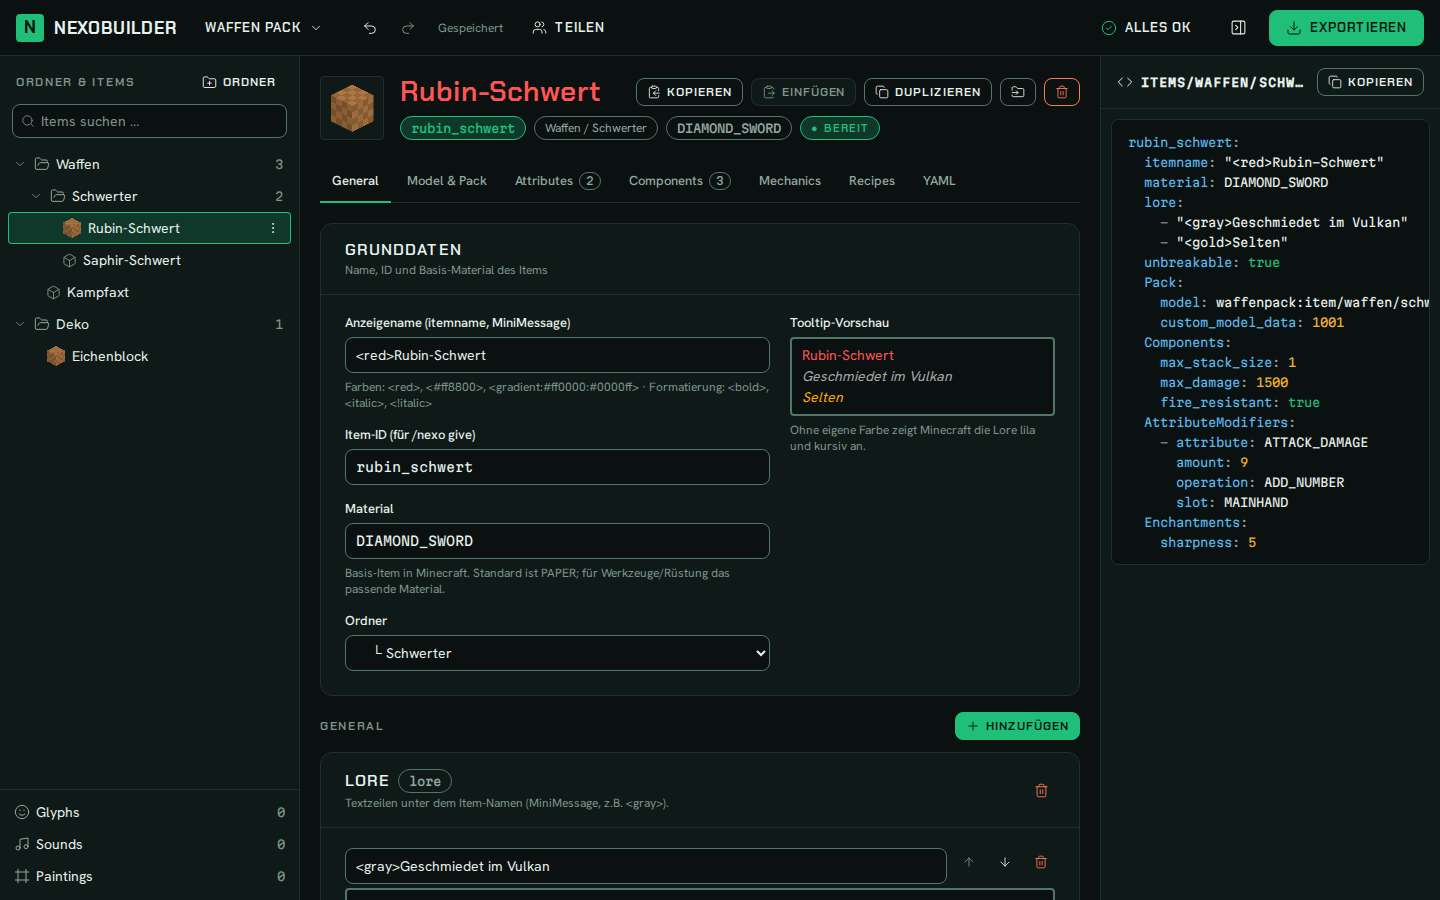
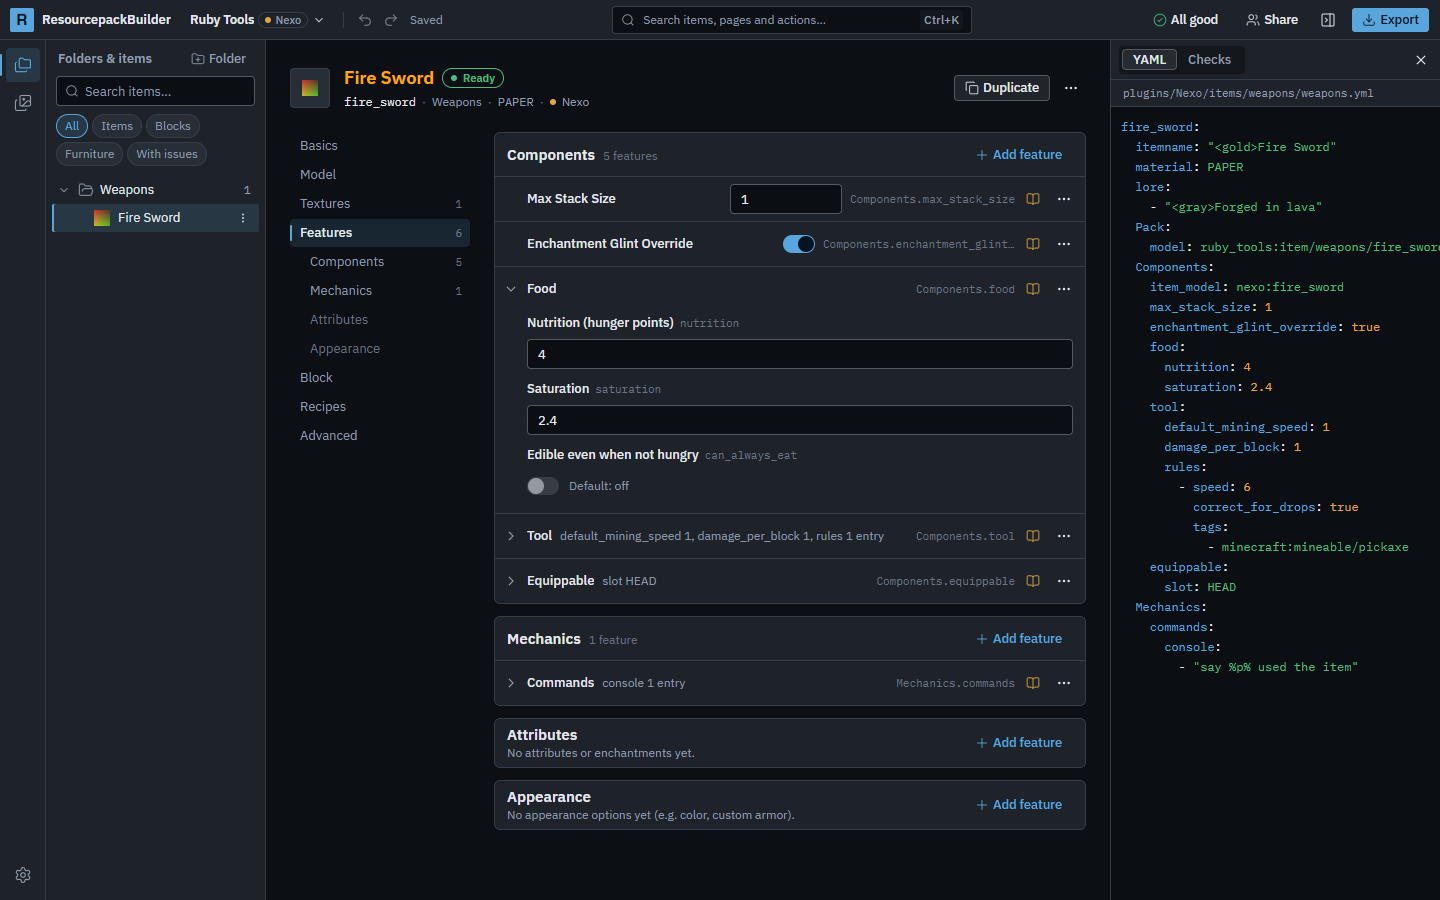
docs(readme): describe the Workbench editor and full plugin coverage with a new screenshot
Also points the CraftEngine link at the wiki's new home.

diff --git a/README.md b/README.md
@@ -1,7 +1,7 @@
 # ResourcepackBuilder
 
 **Turn Blockbench models into ready-to-use [Nexo](https://docs.nexomc.com/) or
-[CraftEngine](https://mo-mi.gitbook.io/xiaomomi-plugins-docs/) items – resource pack included.**
+[CraftEngine](https://xiao-momi.github.io/craft-engine-wiki/) items – resource pack included.**
 
 ResourcepackBuilder is a **Windows program (.exe)**. You create folders, drop your models in, set the properties in
 forms and export everything as a ZIP that you unpack straight into `plugins/Nexo/` or `plugins/CraftEngine/`.
@@ -12,6 +12,15 @@ forms and export everything as a ZIP that you unpack straight into `plugins/Nexo
 
 - **Nexo or CraftEngine** – every project targets one plugin, chosen when you create it. It cannot change later. Models,
   folders, glyphs, sounds, paintings, recipes, the 3D preview and sharing work the same for both.
+- **Workbench editor** – an activity bar (items, media, CraftEngine logic, test server, settings), a sidebar with the
+  item tree and filter chips, and an output dock with the YAML and the checks of the open page (Ctrl+J). The command
+  palette (Ctrl+K) finds items, pages, actions and the settings of the open item.
+- **Item editor** – a section nav (Basics, Model, Textures, Features, Block, Furniture, Events, Loot, Recipes,
+  Advanced) beside one section at a time. Features are compact rows you add from a searchable catalog with categories;
+  every field shows its label, its YAML key and a link to its section of the plugin docs.
+- **Docs links everywhere** – every Nexo and CraftEngine property, block behavior, recipe type, condition, function and
+  media page links to the [Nexo docs](https://docs.nexomc.com/) or the
+  [CraftEngine wiki](https://xiao-momi.github.io/craft-engine-wiki/).
 - **Folders & items** – folders (also nested) become subfolders of `plugins/Nexo/items`. Move items by drag & drop,
   duplicate and search them.
 - **Copy & paste properties** – take the complete configuration of an item (material, lore, attributes, components,
@@ -26,7 +35,7 @@ forms and export everything as a ZIP that you unpack straight into `plugins/Nexo
   - `.png` only – as a 2D item, tool or block (cube_all, pillar, six sides, plant …).
   - Several files at once → several items.
 - **3D preview** of every model (incl. display views such as hand, head, inventory) and thumbnails in the tree.
-- **Nexo properties in forms** (Nexo 1.29 / Minecraft 26.3):
+- **Nexo properties in forms** (Nexo 1.30 / Minecraft 26.3):
   - General: lore (with MiniMessage preview), unbreakable, item flags, templates, PersistentData
   - Attributes & enchantments
   - Components: food, consumable, tool, weapon, equippable, glider, durability, max stack size, cooldown, death
@@ -36,11 +45,22 @@ forms and export everything as a ZIP that you unpack straight into `plugins/Nexo
     Backpack, Commands, Custom Mechanic, Armor Effects, Trident, Repair, Harvesting, Smelting …
   - CustomArmor (worn): player armor, elytra, wolf/horse/llama/nautilus armor, harness and saddles → creates equipment
     models in the pack and sets Equippable automatically
+  - Structured editors for `blocks_attacks`, `kinetic_weapon` and `custom_model_data`, plus rarity, instrument, trims,
+    stored enchantments, potion effects, template lists and more – with the keys Nexo 1.30 reads (older projects are
+    migrated)
+  - Every furniture, custom block and mechanic option Nexo 1.30 reads, with structured hitbox, seat, bed and light
+    editors and a furniture preview
+  - **Dialogs** (`plugins/Nexo/dialogs`), **multipack** templates and menu (`multipack.yml`) and the **Carpentry**
+    addon's block types
   - Anything else: extra YAML per item
   - All features are named as in the Nexo/Minecraft docs (Components, Mechanics, Max Stack Size …) with an explanation
-    on hover
-- **Recipes** – crafting table (shaped/shapeless), furnace, blast furnace, smoker, campfire and stonecutter →
+    in the help popover
+- **Recipes** – every recipe type of the plugin: crafting table (shaped/shapeless), furnace, blast furnace, smoker,
+  campfire, stonecutter, smithing (upgrade and trim), brewing, crafter, transform, transmute, anvil and dye, laid out
+  like their station, with categories, groups, permissions and unlocks; Nexo's disabled vanilla recipes too →
   `recipes/<type>/<project>.yml`
+- **Item model trees** – Minecraft item model definitions (model, composite, condition, select, range dispatch, special,
+  bundle, tints …) as an outline with a card for the selected node, for Nexo (`ItemModel`) and CraftEngine (`model`)
 - **Special item appearance** – pulling/charged/firework (bow, crossbow), blocking (shield), cast (fishing rod),
   throwing (trident), damaged, dyeable and composite models (`Pack.pulling_models`, `Pack.blocking_model` …) plus a
   separate **GUI model** (a different model in the inventory)
@@ -70,17 +90,24 @@ forms and export everything as a ZIP that you unpack straight into `plugins/Nexo
   changes reach everyone within seconds, in both directions.
 - **Local test server** – a Paper server with Nexo or CraftEngine on your PC that updates itself: changes in the project are in the
   game within seconds, including a new resource pack.
-- **CraftEngine projects** (CraftEngine 26.9) add:
-  - Items with data components, settings and behaviors, plus custom blocks (single and multi-state, `auto_state` budget
-    check) and furniture (variants, hitboxes, seats) with block entity renderers
+- **CraftEngine projects** (CraftEngine 26.9) cover every feature of the wiki:
+  - Items with data components, every item setting and behavior (placement, range mining, composting …), advanced lore,
+    client-bound data and a per-version item updater
+  - Custom blocks with all 54 block behaviors from a catalog, every block setting, per-variant settings and compact
+    state tables (single and multi-state, `auto_state` budget check)
+  - Furniture (variants with a preview, hitboxes, seats, behaviors) and block entity renderers with every display
+    parameter
   - Events, conditions and functions for items, blocks and furniture, loot tables and project loot sources
-  - Templates, global variables and the attribute system
+  - Templates (with a reference of the default templates), global variables and the attribute system
+  - Translations and lang keys, item browser categories, worldgen features, atlases, `pack.yml` settings with config
+    factories and JavaScript scripts
   - Recipes, images and emoji, sounds and jukebox songs, paintings, armor as equipments, folders as categories and
     language files for display names
   - Export to `plugins/CraftEngine/resources/<pack>/` with `pack.yml`; the test server downloads CraftEngine from
     Modrinth (a purchased Premium JAR also works)
-- **English and German, light and dark** – _Settings → This device_ sets the language and the appearance (Light, Dark
-  or System); the top bar has a quick theme toggle. Menus and native dialogs follow the chosen language.
+- **Five color themes, English and German** – Deepslate, Amethyst, Copper, Prismarine and Crimson, each in light and
+  dark (_Settings → Appearance_, also on the welcome screen). _Settings → This device_ sets the language; menus and
+  native dialogs follow it.
 
 ## Usage
 
@@ -120,7 +147,7 @@ Good to know:
 
 ### Local test server
 
-The **Test server** area at the bottom left runs a Minecraft server (Paper) with the open project's plugin (Nexo or
+The **Test server** in the activity bar runs a Minecraft server (Paper) with the open project's plugin (Nexo or
 CraftEngine) on your PC – and everything you change in ResourcepackBuilder is in the game within seconds. Until
 everything a start needs is set, the page shows **Before the first start** at the top.
 
@@ -256,15 +283,16 @@ The app (`apps/resourcepackbuilder`):
   Tailwind utilities and the theme tokens only, so every view works in light and dark mode. Language and theme are
   per-device settings. Projects are stored in IndexedDB and saved automatically. Layout:
   - `app/` – Next.js routes only (layout with the pre-paint theme script, page, global CSS);
-  - `shell/` – the frame: providers and boot screen, top bar, sidebar, right panel, main area (a map from the
-    selection to its view), dialog host, keyboard shortcuts, window drop;
+  - `shell/` – the frame: providers and boot screen, top bar, activity bar, sidebar panels, output dock, command
+    palette, main area (a map from the selection to its view), dialog host, keyboard shortcuts, window drop;
   - `store/` – zustand stores: project + undo history, UI state, clipboard, promise-based `confirm`/`prompt` dialogs;
   - `commands/` – every change to a project goes through these functions (one user action = one undo step);
   - `services/` – long-running work created once by `bootstrap()`: project repository (IndexedDB), autosave, share
     sync, test-server sync, desktop locale sync;
   - `features/<feature>/` – the views and dialogs of each feature (item editor, folder, glyphs, sounds, paintings,
     test server, export, share, settings, projects, new item, …);
-  - `components/` – app-wide components, incl. the generic field editor that renders the Nexo property schema;
+  - `components/` – app-wide components, incl. the generic field editor that renders each plugin's property schema,
+    the add catalog and the feature rows;
   - `i18n/`, `theme/`, `platform/` – language store and error translation, theme provider, the desktop bridge.
 - `src/platform/desktopApi.ts` – re-exports the IPC contract types of `packages/desktop-contract`;
   `src/platform/desktop.ts` hands out `window.resourcepackBuilder` and turns failed calls back into `DesktopError`s. The
